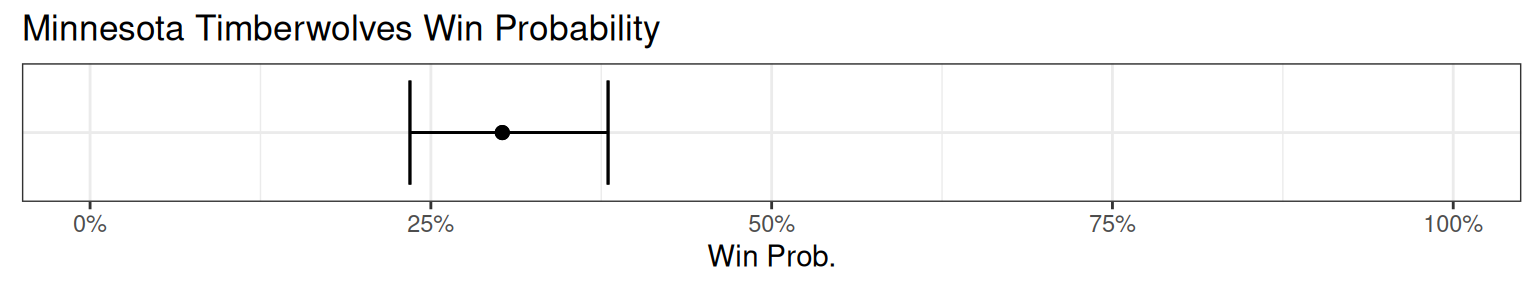
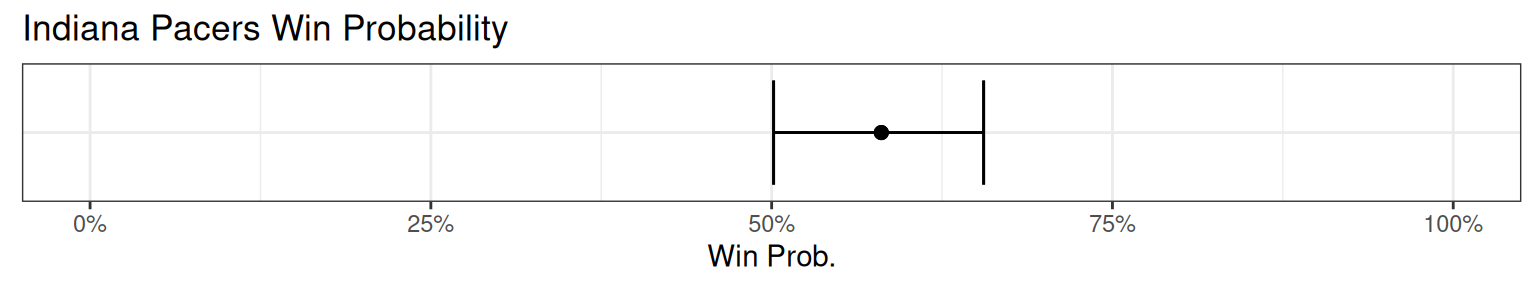
Built site for gh-pages

Changed region(s): [[0.0, 0.0312, 0.4375, 0.1562], [0.5, 0.4375, 0.6562, 0.5], [0.25, 0.4375, 0.4062, 0.5]]

diff --git a/posts.html b/posts.html
@@ -236,7 +236,7 @@ window.Quarto = {
 
 <div class="quarto-listing quarto-listing-container-default" id="listing-listing">
 <div class="list quarto-listing-default">
-<div class="quarto-post image-right" data-index="0" data-categories="TkJBJTJDUg==" data-listing-date-sort="1702598400000" data-listing-file-modified-sort="1748063435974" data-listing-date-modified-sort="NaN" data-listing-reading-time-sort="8" data-listing-word-count-sort="1579">
+<div class="quarto-post image-right" data-index="0" data-categories="TkJBJTJDUg==" data-listing-date-sort="1702598400000" data-listing-file-modified-sort="1748149825804" data-listing-date-modified-sort="NaN" data-listing-reading-time-sort="8" data-listing-word-count-sort="1579">
 <div class="thumbnail"><a href="./posts/homepage/daily_nba_compr/daily_nba_compr.html" class="no-external">
 
 <img loading="lazy" src="./posts/homepage/daily_nba_compr/jt_nba_photo.png" class="thumbnail-image">
@@ -268,7 +268,7 @@ James Wolpe
 </a>
 </div>
 </div>
-<div class="quarto-post image-right" data-index="1" data-categories="UiUyQ2NvbXBy" data-listing-date-sort="1702252800000" data-listing-file-modified-sort="1748063435963" data-listing-date-modified-sort="NaN" data-listing-reading-time-sort="2" data-listing-word-count-sort="322">
+<div class="quarto-post image-right" data-index="1" data-categories="UiUyQ2NvbXBy" data-listing-date-sort="1702252800000" data-listing-file-modified-sort="1748149825794" data-listing-date-modified-sort="NaN" data-listing-reading-time-sort="2" data-listing-word-count-sort="322">
 <div class="thumbnail"><a href="./posts/compr/compr.html" class="no-external">
 
 <img loading="lazy" src="./posts/compr/r_package.png" class="thumbnail-image">
@@ -300,7 +300,7 @@ James Wolpe
 </a>
 </div>
 </div>
-<div class="quarto-post image-right" data-index="2" data-listing-date-sort="1652659200000" data-listing-file-modified-sort="1748063435976" data-listing-date-modified-sort="NaN" data-listing-reading-time-sort="1" data-listing-word-count-sort="27">
+<div class="quarto-post image-right" data-index="2" data-listing-date-sort="1652659200000" data-listing-file-modified-sort="1748149825806" data-listing-date-modified-sort="NaN" data-listing-reading-time-sort="1" data-listing-word-count-sort="27">
 <div class="thumbnail"><a href="./posts/homepage/tennis_atp_directionals/atp_directionals.html" class="no-external">
 
 <img loading="lazy" src="./posts/homepage/tennis_atp_directionals/directionals_image.jpg" class="thumbnail-image">
@@ -325,7 +325,7 @@ James Wolpe
 </a>
 </div>
 </div>
-<div class="quarto-post image-right" data-index="3" data-categories="UiUyQ3RpZHl2ZXJzZSUyQ2dncGxvdDI=" data-listing-date-sort="1652227200000" data-listing-file-modified-sort="1748063435976" data-listing-date-modified-sort="NaN" data-listing-reading-time-sort="9" data-listing-word-count-sort="1629">
+<div class="quarto-post image-right" data-index="3" data-categories="UiUyQ3RpZHl2ZXJzZSUyQ2dncGxvdDI=" data-listing-date-sort="1652227200000" data-listing-file-modified-sort="1748149825806" data-listing-date-modified-sort="NaN" data-listing-reading-time-sort="9" data-listing-word-count-sort="1629">
 <div class="thumbnail"><a href="./posts/homepage/imdb_friends_himym/imdb_friends_himym.html" class="no-external">
 
 <img loading="lazy" src="./posts/homepage/imdb_friends_himym/barney_blog.gif" class="thumbnail-image">
@@ -359,7 +359,7 @@ James Wolpe
 </a>
 </div>
 </div>
-<div class="quarto-post image-right" data-index="4" data-listing-date-sort="1652227200000" data-listing-file-modified-sort="1748063435977" data-listing-date-modified-sort="NaN" data-listing-reading-time-sort="5" data-listing-word-count-sort="924">
+<div class="quarto-post image-right" data-index="4" data-listing-date-sort="1652227200000" data-listing-file-modified-sort="1748149825808" data-listing-date-modified-sort="NaN" data-listing-reading-time-sort="5" data-listing-word-count-sort="924">
 <div class="thumbnail"><a href="./posts/imdb_oscar_best_picture/imdb_oscar_best_picture.html" class="no-external">
 
 <p class="card-img-top"><img src="posts/imdb_oscar_best_picture/imdb_oscar_best_picture_files/figure-html/unnamed-chunk-3-1.png"  class="thumbnail-image card-img"/></p>
@@ -384,7 +384,7 @@ James Wolpe
 </a>
 </div>
 </div>
-<div class="quarto-post image-right" data-index="5" data-listing-date-sort="1652140800000" data-listing-file-modified-sort="1748063435977" data-listing-date-modified-sort="NaN" data-listing-reading-time-sort="9" data-listing-word-count-sort="1672">
+<div class="quarto-post image-right" data-index="5" data-listing-date-sort="1652140800000" data-listing-file-modified-sort="1748149825808" data-listing-date-modified-sort="NaN" data-listing-reading-time-sort="9" data-listing-word-count-sort="1672">
 <div class="thumbnail"><a href="./posts/stat113_greek_life/stat113_greek_life.html" class="no-external">
 
 <p class="card-img-top"><img src="posts/stat113_greek_life/stat113_greek_life_files/figure-html/unnamed-chunk-3-1.png"  class="thumbnail-image card-img"/></p>
@@ -409,7 +409,7 @@ James Wolpe
 </a>
 </div>
 </div>
-<div class="quarto-post image-right" data-index="6" data-listing-date-sort="1651968000000" data-listing-file-modified-sort="1748063435977" data-listing-date-modified-sort="NaN" data-listing-reading-time-sort="6" data-listing-word-count-sort="1145">
+<div class="quarto-post image-right" data-index="6" data-listing-date-sort="1651968000000" data-listing-file-modified-sort="1748149825808" data-listing-date-modified-sort="NaN" data-listing-reading-time-sort="6" data-listing-word-count-sort="1145">
 <div class="thumbnail"><a href="./posts/imdb_trailer_park_boys/imdb_trailer_park_boys.html" class="no-external">
 
 <p class="card-img-top"><img src="posts/imdb_trailer_park_boys/imdb_trailer_park_boys_files/figure-html/unnamed-chunk-5-1.png"  class="thumbnail-image card-img"/></p>

diff --git a/posts/homepage/daily_nba_compr/daily_nba_compr.html b/posts/homepage/daily_nba_compr/daily_nba_compr.html
@@ -229,7 +229,7 @@ gtag('config', 'G-H1P8FBJXVX', { 'anonymize_ip': true});
 
 
 <div class="tabset-margin-container"></div><div class="panel-tabset">
-<ul class="nav nav-tabs" role="tablist"><li class="nav-item" role="presentation"><a class="nav-link active" id="tabset-1-1-tab" data-bs-toggle="tab" data-bs-target="#tabset-1-1" role="tab" aria-controls="tabset-1-1" aria-selected="true">Today’s Games (May 24, 2025)</a></li><li class="nav-item" role="presentation"><a class="nav-link" id="tabset-1-2-tab" data-bs-toggle="tab" data-bs-target="#tabset-1-2" role="tab" aria-controls="tabset-1-2" aria-selected="false">Games May 25, 2025</a></li><li class="nav-item" role="presentation"><a class="nav-link" id="tabset-1-3-tab" data-bs-toggle="tab" data-bs-target="#tabset-1-3" role="tab" aria-controls="tabset-1-3" aria-selected="false">Games May 26, 2025</a></li></ul>
+<ul class="nav nav-tabs" role="tablist"><li class="nav-item" role="presentation"><a class="nav-link active" id="tabset-1-1-tab" data-bs-toggle="tab" data-bs-target="#tabset-1-1" role="tab" aria-controls="tabset-1-1" aria-selected="true">Today’s Games (May 25, 2025)</a></li><li class="nav-item" role="presentation"><a class="nav-link" id="tabset-1-2-tab" data-bs-toggle="tab" data-bs-target="#tabset-1-2" role="tab" aria-controls="tabset-1-2" aria-selected="false">Games May 26, 2025</a></li><li class="nav-item" role="presentation"><a class="nav-link" id="tabset-1-3-tab" data-bs-toggle="tab" data-bs-target="#tabset-1-3" role="tab" aria-controls="tabset-1-3" aria-selected="false">Games May 27, 2025</a></li></ul>
 <div class="tab-content">
 <div id="tabset-1-1" class="tab-pane active" role="tabpanel" aria-labelledby="tabset-1-1-tab">
 <div class="cell">
@@ -243,12 +243,12 @@ gtag('config', 'G-H1P8FBJXVX', { 'anonymize_ip': true});
 </thead>
 <tbody>
 <tr class="odd">
-<td style="text-align: left;">Oklahoma City Thunder</td>
-<td style="text-align: left;">70%</td>
+<td style="text-align: left;">New York Knicks</td>
+<td style="text-align: left;">42%</td>
 </tr>
 <tr class="even">
-<td style="text-align: left;">Minnesota Timberwolves</td>
-<td style="text-align: left;">30%</td>
+<td style="text-align: left;">Indiana Pacers</td>
+<td style="text-align: left;">58%</td>
 </tr>
 </tbody>
 </table>
@@ -274,12 +274,12 @@ gtag('config', 'G-H1P8FBJXVX', { 'anonymize_ip': true});
 </thead>
 <tbody>
 <tr class="odd">
-<td style="text-align: left;">New York Knicks</td>
-<td style="text-align: left;">43%</td>
+<td style="text-align: left;">Oklahoma City Thunder</td>
+<td style="text-align: left;">70%</td>
 </tr>
 <tr class="even">
-<td style="text-align: left;">Indiana Pacers</td>
-<td style="text-align: left;">57%</td>
+<td style="text-align: left;">Minnesota Timberwolves</td>
+<td style="text-align: left;">30%</td>
 </tr>
 </tbody>
 </table>
@@ -305,12 +305,12 @@ gtag('config', 'G-H1P8FBJXVX', { 'anonymize_ip': true});
 </thead>
 <tbody>
 <tr class="odd">
-<td style="text-align: left;">Oklahoma City Thunder</td>
-<td style="text-align: left;">70%</td>
+<td style="text-align: left;">New York Knicks</td>
+<td style="text-align: left;">42%</td>
 </tr>
 <tr class="even">
-<td style="text-align: left;">Minnesota Timberwolves</td>
-<td style="text-align: left;">30%</td>
+<td style="text-align: left;">Indiana Pacers</td>
+<td style="text-align: left;">58%</td>
 </tr>
 </tbody>
 </table>

diff --git a/index.html b/index.html
@@ -229,7 +229,7 @@ Welcome to my personal website! I am a recent graduate with a degree in Data Sci
 <p>Some of my work</p>
 <div id="listing-listing-blog" class="quarto-listing quarto-listing-container-grid">
 <div class="list grid quarto-listing-cols-3">
-<div class="g-col-1" data-index="0" data-categories="TkJBJTJDUg==" data-listing-date-sort="1702598400000" data-listing-file-modified-sort="1748063435974" data-listing-date-modified-sort="NaN" data-listing-reading-time-sort="8" data-listing-word-count-sort="1579">
+<div class="g-col-1" data-index="0" data-categories="TkJBJTJDUg==" data-listing-date-sort="1702598400000" data-listing-file-modified-sort="1748149825804" data-listing-date-modified-sort="NaN" data-listing-reading-time-sort="8" data-listing-word-count-sort="1579">
 <a href="./posts/homepage/daily_nba_compr/daily_nba_compr.html" class="quarto-grid-link">
 <div class="quarto-grid-item card h-100 card-left">
 <p class="card-img-top">
@@ -253,7 +253,7 @@ Dec 15, 2023
 </div>
 </div></a>
 </div>
-<div class="g-col-1" data-index="1" data-listing-date-sort="1652659200000" data-listing-file-modified-sort="1748063435976" data-listing-date-modified-sort="NaN" data-listing-reading-time-sort="1" data-listing-word-count-sort="27">
+<div class="g-col-1" data-index="1" data-listing-date-sort="1652659200000" data-listing-file-modified-sort="1748149825806" data-listing-date-modified-sort="NaN" data-listing-reading-time-sort="1" data-listing-word-count-sort="27">
 <a href="./posts/homepage/tennis_atp_directionals/atp_directionals.html" class="quarto-grid-link">
 <div class="quarto-grid-item card h-100 card-left">
 <p class="card-img-top">
@@ -277,7 +277,7 @@ May 16, 2022
 </div>
 </div></a>
 </div>
-<div class="g-col-1" data-index="2" data-categories="UiUyQ3RpZHl2ZXJzZSUyQ2dncGxvdDI=" data-listing-date-sort="1652227200000" data-listing-file-modified-sort="1748063435976" data-listing-date-modified-sort="NaN" data-listing-reading-time-sort="9" data-listing-word-count-sort="1629">
+<div class="g-col-1" data-index="2" data-categories="UiUyQ3RpZHl2ZXJzZSUyQ2dncGxvdDI=" data-listing-date-sort="1652227200000" data-listing-file-modified-sort="1748149825806" data-listing-date-modified-sort="NaN" data-listing-reading-time-sort="9" data-listing-word-count-sort="1629">
 <a href="./posts/homepage/imdb_friends_himym/imdb_friends_himym.html" class="quarto-grid-link">
 <div class="quarto-grid-item card h-100 card-left">
 <p class="card-img-top">
